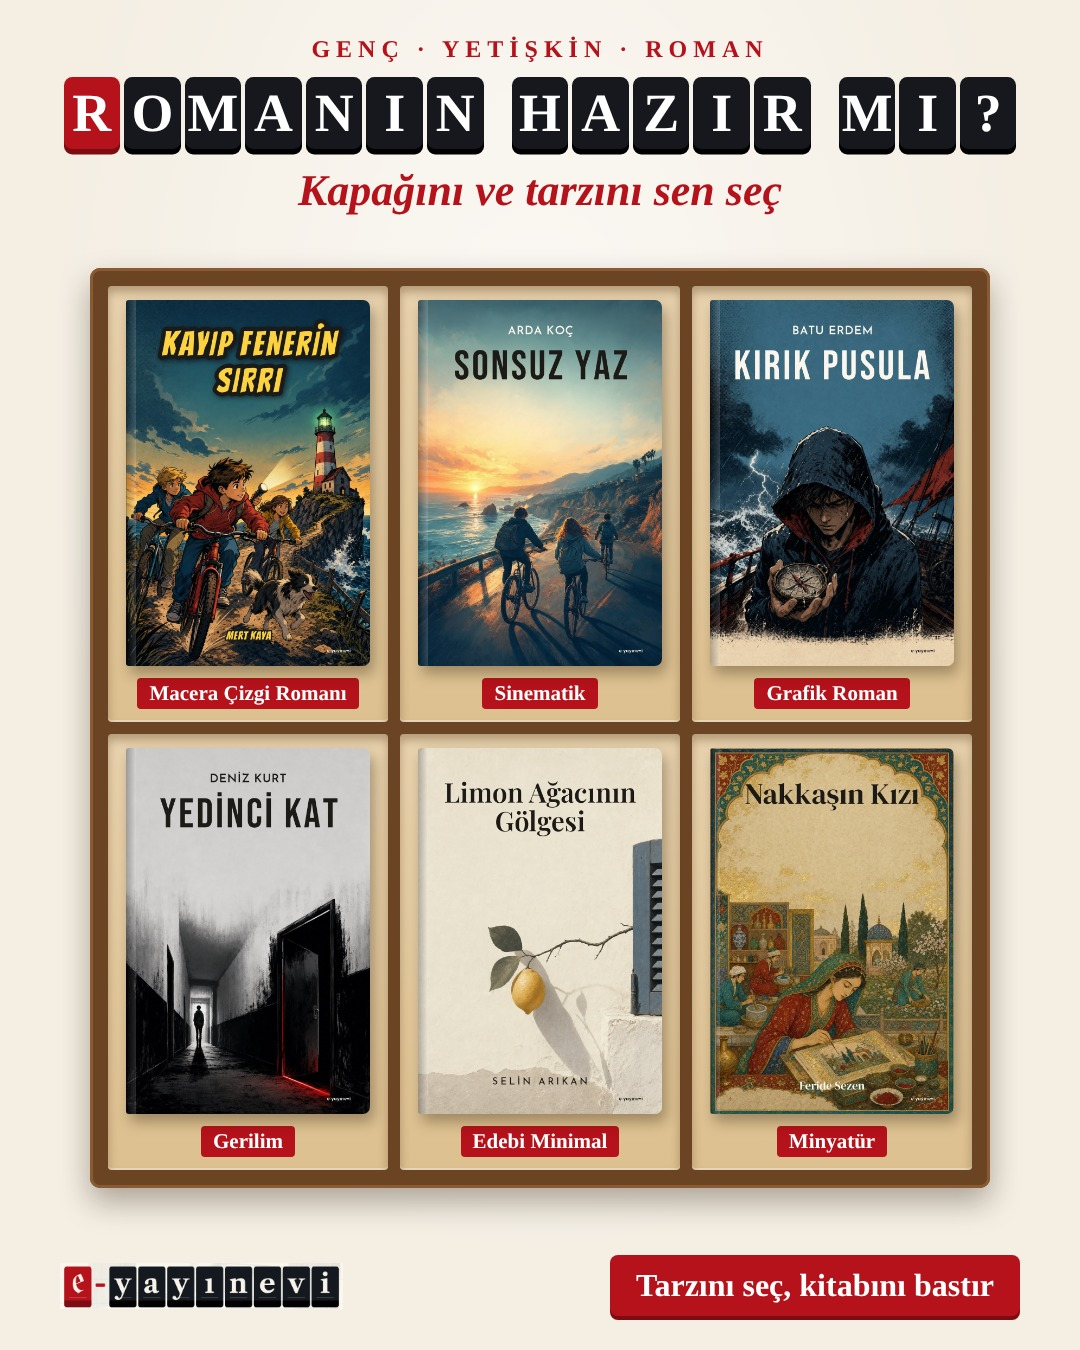
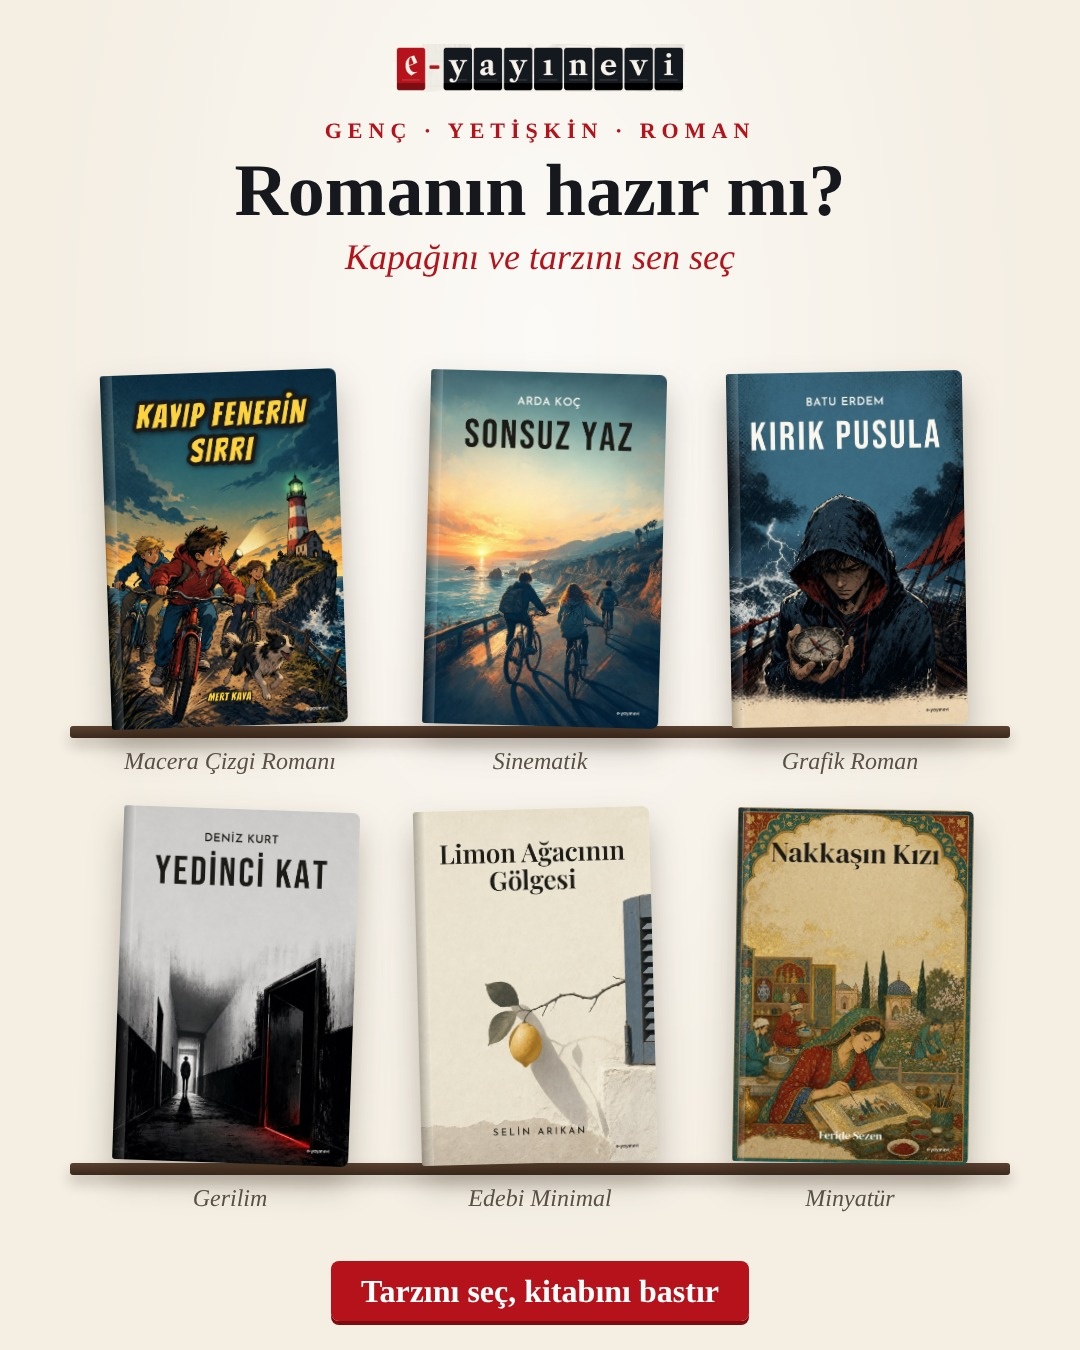
Vitrin: çerçevesiz raf tasarımı
Claude-Session: https://claude.ai/code/session_01CDkmKSZuDGcm7bYhjP6ExS

diff --git a/sablon/tarz/vitrin.py b/sablon/tarz/vitrin.py
@@ -14,37 +14,35 @@ DOODLES = """
 <svg style='position:absolute;right:40px;bottom:230px' width='90' height='170' viewBox='0 0 60 120' fill='none' stroke='#E45D5D' stroke-width='3.5' stroke-linecap='round'><ellipse cx='30' cy='30' rx='24' ry='28' fill='#F7A1A1'/><path d='M30 58 Q22 75 32 88 Q42 100 28 116'/></svg>
 <svg style='position:absolute;left:30px;bottom:150px' width='90' height='90' viewBox='0 0 100 100' stroke='#E8B53A' stroke-width='4' fill='#FFE08A'><circle cx='50' cy='28' r='14'/><circle cx='72' cy='50' r='14'/><circle cx='50' cy='72' r='14'/><circle cx='28' cy='50' r='14'/><circle cx='50' cy='50' r='10' fill='#fff'/></svg>
 <svg style='position:absolute;right:30px;top:250px' width='70' height='70' viewBox='0 0 100 100' stroke='#E8B53A' stroke-width='4' fill='#FFE08A'><circle cx='50' cy='28' r='14'/><circle cx='72' cy='50' r='14'/><circle cx='50' cy='72' r='14'/><circle cx='28' cy='50' r='14'/><circle cx='50' cy='50' r='10' fill='#fff'/></svg>"""
-def tiles(text, size, bg="#16181D", fg="#fff", red_first=False):
-    out = []
-    for i, ch in enumerate(text):
-        if ch == " ":
-            out.append(f"<span style='display:inline-block;width:{size*0.35}px'></span>"); continue
-        b = "#B5121B" if (red_first and i == 0) else bg
-        sh = "#7d0c12" if (red_first and i == 0) else "#000"
-        out.append(f"<span style='display:inline-flex;align-items:center;justify-content:center;width:{size*0.82}px;height:{size*1.05}px;margin:0 2px;background:{b};color:{fg};border-radius:{size*0.12}px;box-shadow:0 {size*0.08}px 0 {sh};font-family:\"Liberation Serif\",serif;font-weight:700;font-size:{size*0.78}px'>{ch}</span>")
-    return "".join(out)
-
 def vitrin(kicker, line1, line2, slugs, foot="Tarzını seç, kitabını bastır"):
-    """Dizgi kasası vitrini: ahşap kasanın gözlerinde kapaklar, altlarında tarz adı; başlık harf bloklarıyla."""
+    """Raf vitrini: sitedeki gibi ince ahşap raflarda duran kapaklar, altta sade tarz adları, bol boşluk, çerçeve yok."""
     sq = S[slugs[0]][4] == "3-7"
-    w = 236 if sq else 244; h = w if sq else round(w * 1.5)
-    cell_w, cell_h = w + 36, h + 70
-    letters = len(line1.replace(" ", ""))
-    tsize = min(78, int(900 / max(letters, 1) / 0.86))
-    cells = "".join(
-        f"<div style='width:{cell_w}px;height:{cell_h}px;background:linear-gradient(#E9D3AE,#DDC08F);box-shadow:inset 0 6px 10px rgba(80,50,20,.35),inset 0 -2px 0 rgba(255,255,255,.4);border-radius:4px;display:flex;flex-direction:column;align-items:center;justify-content:flex-start;padding-top:14px'>"
-        f"<div style='width:{w}px;height:{h}px;border-radius:3px 7px 7px 3px;overflow:hidden;box-shadow:4px 8px 14px rgba(40,25,10,.35);position:relative'><img src='{C}/kapak-{s}.jpg' style='width:100%;height:100%;object-fit:cover'><div style='position:absolute;left:0;top:0;bottom:0;width:10px;background:linear-gradient(to right,rgba(0,0,0,.25),rgba(255,255,255,.15))'></div></div>"
-        f"<div style='margin-top:12px;background:#B5121B;color:#fff;font-family:\"Liberation Serif\",serif;font-weight:700;font-size:21px;padding:3px 12px;border-radius:4px;white-space:nowrap'>{S[s][0]}</div></div>"
-        for s in slugs)
+    w = 218 if sq else 236; h = w if sq else round(w * 1.5)
+    rows = [slugs[i:i+3] for i in range(0, len(slugs), 3)]
+    tilt = [-2, 1.5, -1, 2, -1.5, 1, -2.5, 1.5, -1]
+    def book(sl, k):
+        return (f"<div style='display:flex;flex-direction:column;align-items:center;width:{w+40}px'>"
+                f"<div style='width:{w}px;height:{h}px;position:relative;transform:rotate({tilt[k]}deg);transform-origin:50% 100%;filter:drop-shadow(0 18px 16px rgba(40,25,10,.28))'>"
+                f"<img src='{C}/kapak-{sl}.jpg' style='width:100%;height:100%;object-fit:cover;border-radius:3px 7px 7px 3px'>"
+                f"<div style='position:absolute;left:0;top:0;bottom:0;width:12px;border-radius:3px 0 0 3px;background:linear-gradient(to right,rgba(0,0,0,.25),rgba(255,255,255,.18))'></div></div></div>")
+    shelves, k = "", 0
+    for r in rows:
+        books = ""
+        for sl in r:
+            books += book(sl, k); k += 1
+        names = "".join(f"<div style='width:{w+40}px;text-align:center;font-size:24px;font-style:italic;color:#5a5148'>{S[sl][0]}</div>" for sl in r)
+        shelves += (f"<div style='display:flex;justify-content:center;gap:34px;align-items:flex-end'>{books}</div>"
+                    f"<div style='height:12px;margin:0 70px;background:linear-gradient(#5b4130,#3b291d);border-radius:3px;box-shadow:0 8px 14px rgba(40,25,10,.22)'></div>"
+                    f"<div style='display:flex;justify-content:center;gap:34px;margin:10px 0 {26 if sq else 34}px'>{names}</div>")
     return f"""<html><head><meta charset=utf-8><style>*{{margin:0;box-sizing:border-box}}body{{width:1080px;height:1350px;background:#F4EEE3;position:relative;overflow:hidden;font-family:"Liberation Serif",serif;color:#16181D}}</style></head><body>
-<div style='position:absolute;inset:0;background:radial-gradient(ellipse at 50% 30%,rgba(255,255,255,.65),transparent 65%)'></div>
-<div style='position:absolute;top:36px;left:0;right:0;text-align:center'>
- <div style='font-size:24px;font-weight:700;letter-spacing:6px;color:#B5121B'>{kicker}</div>
- <div style='margin-top:14px;white-space:nowrap'>{tiles(line1, tsize, red_first=True)}</div>
- <div style='font-size:44px;font-style:italic;font-weight:700;color:#B5121B;margin-top:16px'>{line2}</div>
+<div style='position:absolute;inset:0;background:radial-gradient(ellipse at 50% 25%,rgba(255,255,255,.7),transparent 65%)'></div>
+<img src='{AS}/wordmark.png' style='position:absolute;top:44px;left:50%;transform:translateX(-50%);height:48px'>
+<div style='position:absolute;top:118px;left:0;right:0;text-align:center'>
+ <div style='font-size:22px;font-weight:700;letter-spacing:6px;color:#B5121B'>{kicker}</div>
+ <div style='font-size:74px;font-weight:700;line-height:1.05;margin-top:8px'>{line1}</div>
+ <div style='font-size:36px;font-style:italic;color:#B5121B;margin-top:6px'>{line2}</div>
 </div>
-<div style='position:absolute;top:{262 if sq else 268}px;left:50%;transform:translateX(-50%);padding:18px;background:#6B4423;border-radius:10px;box-shadow:0 14px 30px rgba(40,25,10,.35),inset 0 0 0 3px #8A5A33;display:grid;grid-template-columns:repeat(3,{cell_w}px);gap:12px'>{cells}</div>
-<div style='position:absolute;bottom:34px;left:60px;right:60px;display:flex;align-items:center;justify-content:space-between'>
- <img src='{AS}/wordmark.png' style='height:46px'>
- <span style='background:#B5121B;color:#fff;font-weight:700;font-size:32px;padding:12px 26px;border-radius:8px;box-shadow:0 4px 0 #7d0c12'>{foot}</span>
+<div style='position:absolute;top:{360 if sq else 372}px;left:0;right:0'>{shelves}</div>
+<div style='position:absolute;bottom:40px;left:0;right:0;text-align:center'>
+ <span style='background:#B5121B;color:#fff;font-weight:700;font-size:32px;padding:12px 30px;border-radius:8px;box-shadow:0 4px 0 #7d0c12'>{foot}</span>
 </div></body></html>"""

diff --git a/sablon/tarz/vitrin_1107.py b/sablon/tarz/vitrin_1107.py
@@ -4,8 +4,8 @@ from vitrin import vitrin
 from playwright.sync_api import sync_playwright
 OUT = os.path.abspath(os.path.join(os.path.dirname(__file__), "../../2026-11/tarz"))
 J = {
- "v-37": vitrin("3-7 YAŞ · RESİMLİ KİTAP", "KAHRAMAN O OLSUN", "Çocuğunun hikâyesi, senin seçtiğin tarzda", ["renkli-cizgi-film","suluboya-masal","kuru-boya","kagit-kolaj","3d-oyuncak","klasik-masal","modern-sade","pastel-boya-ruyasi","uyku-vakti"]),
- "v-genc": vitrin("GENÇ · YETİŞKİN · ROMAN", "ROMANIN HAZIR MI?", "Kapağını ve tarzını sen seç", ["macera-cizgi-roman","sinematik","grafik-roman","gerilim","edebi-minimal","minyatur"]),
+ "v-37": vitrin("3-7 YAŞ · RESİMLİ KİTAP", "Kahraman o olsun!", "Çocuğunun hikâyesi, senin seçtiğin tarzda", ["renkli-cizgi-film","suluboya-masal","kuru-boya","kagit-kolaj","3d-oyuncak","klasik-masal","modern-sade","pastel-boya-ruyasi","uyku-vakti"]),
+ "v-genc": vitrin("GENÇ · YETİŞKİN · ROMAN", "Romanın hazır mı?", "Kapağını ve tarzını sen seç", ["macera-cizgi-roman","sinematik","grafik-roman","gerilim","edebi-minimal","minyatur"]),
 }
 with sync_playwright() as p:
     b = p.chromium.launch(); pg = b.new_page(viewport={"width":1080,"height":1350})
